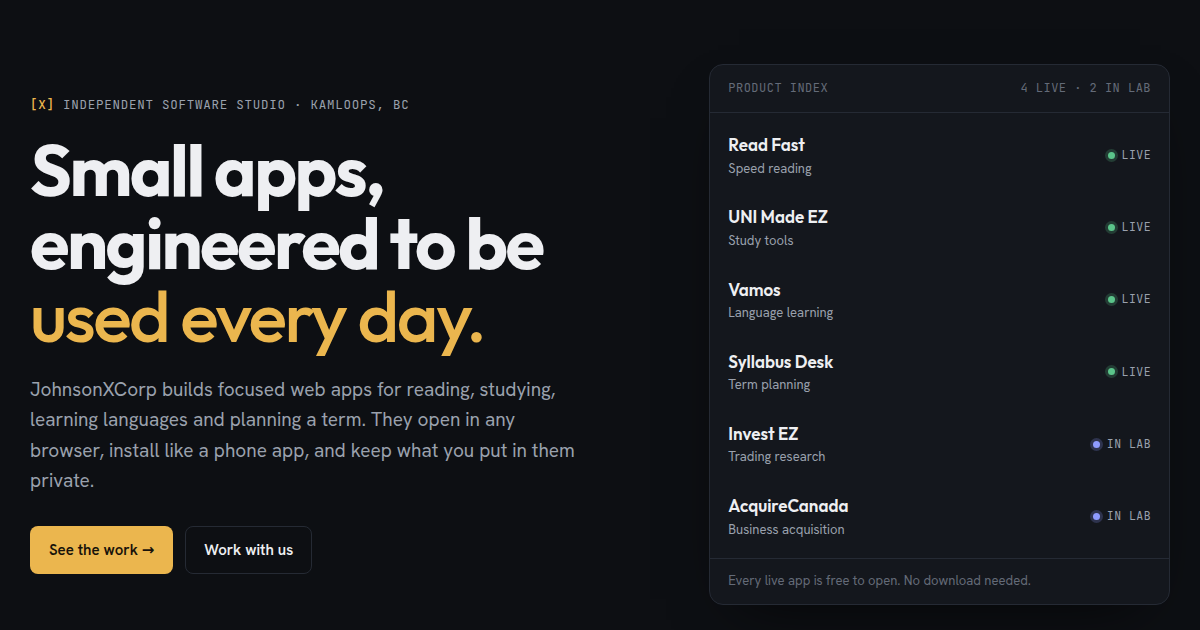
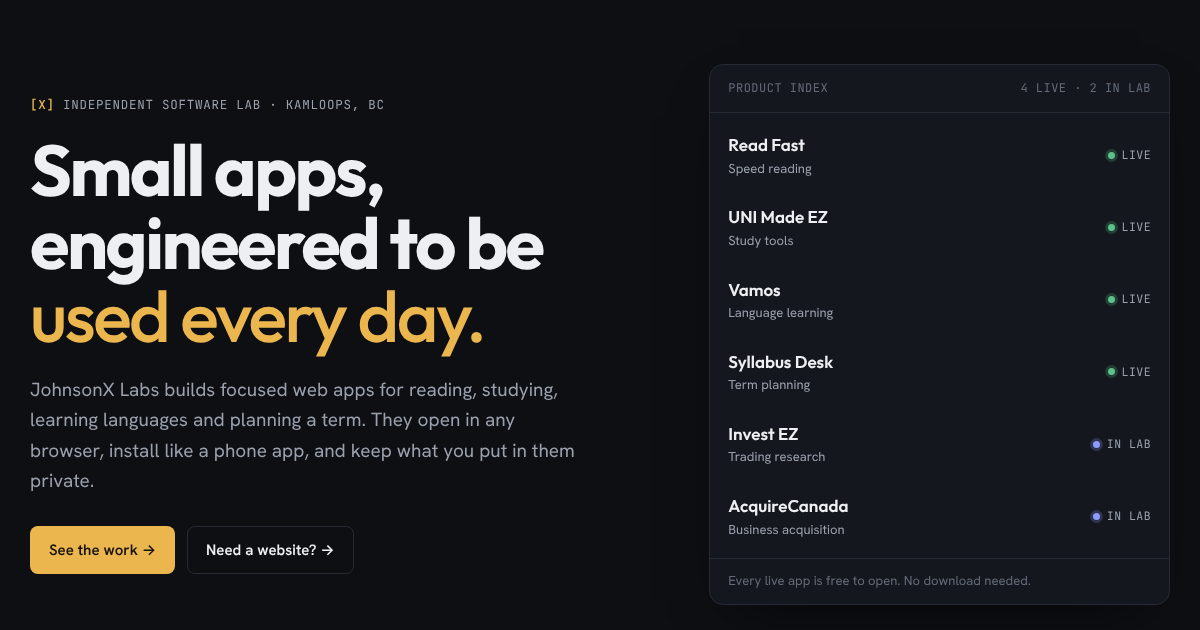
Rename JohnsonXCorp to JohnsonX Labs (BC naming rules)
In BC only an incorporated company may use "Corp" in its name, so the
apps brand becomes JohnsonX Labs. Legal page v1.2 explains the change.
Studio pages: name mentions only; Studio's © now names JohnsonX Studio.
New og-image with the new name.

Claude-Session: https://claude.ai/code/session_01PkgMs9qpznBCTw9e3EAUdt

diff --git a/legal/index.html b/legal/index.html
@@ -4,8 +4,8 @@
 <head>
 <meta charset="utf-8">
 <meta name="viewport" content="width=device-width, initial-scale=1, viewport-fit=cover">
-<title>Legal — JohnsonXCorp &amp; JohnsonX Studio</title>
-<meta name="description" content="Ownership, terms of use, client terms and privacy for JohnsonXCorp and JohnsonX Studio.">
+<title>Legal — JohnsonX Labs &amp; JohnsonX Studio</title>
+<meta name="description" content="Ownership, terms and privacy for JohnsonX Labs (apps) and JohnsonX Studio (web design), two separate projects run by Anndy Johnson.">
 <link rel="canonical" href="https://thepastor.github.io/legal/">
 <meta name="color-scheme" content="light">
 <meta name="theme-color" content="#F8F7F3">
@@ -248,10 +248,10 @@ header.bar .btn.primary{padding:8px 14px;font-size:14px}
 <body>
 <header class="bar">
   <div class="shell">
-    <a class="wm" href="../" aria-label="JohnsonXCorp home">Johnson<span class="x">[X]</span>Corp</a>
+    <a class="wm" href="../" aria-label="JohnsonX Labs home">Johnson<span class="x">[X]</span> Labs</a>
     <nav aria-label="Main">
       <a href="#who">Who</a>
-      <a href="#ownership">JohnsonXCorp</a>
+      <a href="#ownership">JohnsonX Labs</a>
       <a href="#studio">JohnsonX Studio</a>
       <a href="#privacy">Privacy</a>
       <a href="#contact">Contact</a>
@@ -262,11 +262,11 @@ header.bar .btn.primary{padding:8px 14px;font-size:14px}
 
 <main class="shell legal" id="top">
   <section class="lhead">
-    <div class="eyebrow"><b>[X]</b> Legal · Version 1.1 · Effective 24 September 2026</div>
+    <div class="eyebrow"><b>[X]</b> Legal · Version 1.2 · Effective 2 November 2026</div>
     <h1>Ownership, terms &amp; privacy</h1>
-    <p class="lede">Anndy Johnson runs two separate projects: <strong>JohnsonXCorp</strong>, which makes apps, and <strong>JohnsonX Studio</strong>, which designs websites. This page covers both, and each project has its own section. It is written in plain English. If anything here is unclear, email <a href="mailto:johnsonxcorp@outlook.com">johnsonxcorp@outlook.com</a>.</p>
+    <p class="lede">Anndy Johnson runs two separate projects: <strong>JohnsonX Labs</strong>, which makes apps, and <strong>JohnsonX Studio</strong>, which designs websites. This page covers both, and each project has its own section. It is written in plain English. If anything here is unclear, email <a href="mailto:johnsonxcorp@outlook.com">johnsonxcorp@outlook.com</a>.</p>
     <div class="summary">
-      <div><b>Two projects, one owner.</b> JohnsonXCorp and JohnsonX Studio are separate projects. Anndy Johnson owns and runs both.</div>
+      <div><b>Two projects, one owner.</b> JohnsonX Labs and JohnsonX Studio are separate projects. Anndy Johnson owns and runs both.</div>
       <div><b>Proprietary.</b> The apps, this site and the Studio templates are all rights reserved.</div>
       <div><b>Your details stay private.</b> They are used only to reply to you or to run the service you use, and they are never sold.</div>
     </div>
@@ -276,18 +276,18 @@ header.bar .btn.primary{padding:8px 14px;font-size:14px}
     <h2>1 · Who runs this</h2>
     <p><strong>Anndy Johnson</strong> is an individual based in Kamloops, British Columbia, Canada. He uses two names for two separate projects:</p>
     <ul>
-      <li><strong>JohnsonXCorp</strong> is the name for his apps and for this website.</li>
+      <li><strong>JohnsonX Labs</strong> is the name for his apps and for this website.</li>
       <li><strong>JohnsonX Studio</strong> is the name for his web design service for small businesses.</li>
     </ul>
-    <p>Both are names Anndy Johnson works under, and neither is a separate company. Each project's ownership is set out in its own section below. In this page, "we", "us" and "our" mean Anndy Johnson, under whichever of the two names applies.</p>
+    <p>Both are names Anndy Johnson works under, and neither is a separate company. JohnsonX Labs was called <strong>JohnsonXCorp</strong> until 2 November 2026. The name changed because, in British Columbia, only an incorporated company may use "Corp" or "Corporation" in its name. Older versions of the apps, and copies of them, may still show the old name. Everything said here about JohnsonX Labs applies to them too. Each project's ownership is set out in its own section below. In this page, "we", "us" and "our" mean Anndy Johnson, under whichever of the two names applies.</p>
     <p>These are independent projects. They are not operated, funded or endorsed by Thompson Rivers University or any other institution.</p>
   </section>
 
   <section class="lsec" id="ownership">
-    <h2>2 · JohnsonXCorp: apps &amp; this website</h2>
+    <h2>2 · JohnsonX Labs: apps &amp; this website</h2>
     <h3>Ownership</h3>
-    <p>Copyright in the JohnsonXCorp website (the homepage and this Legal page) belongs to Anndy Johnson. So does copyright in the JohnsonXCorp apps: Read Fast, UNI Made EZ, Vamos and Syllabus Desk, plus any other app that carries the JohnsonXCorp credit. Ownership covers the design, text, code, screenshots, graphics and icons. The JohnsonXCorp name, the Johnson[X]Corp wordmark and the hexagon-X mark also belong to Anndy Johnson.</p>
-    <p class="notice">© 2026 Anndy Johnson (JohnsonXCorp). All rights reserved.</p>
+    <p>Copyright in the JohnsonX Labs website (the homepage and this Legal page) belongs to Anndy Johnson. So does copyright in the JohnsonX Labs apps: Read Fast, UNI Made EZ, Vamos and Syllabus Desk, plus any other app that carries the JohnsonX Labs credit. Ownership covers the design, text, code, screenshots, graphics and icons. The JohnsonX Labs name, the Johnson[X] Labs wordmark and the hexagon-X mark also belong to Anndy Johnson.</p>
+    <p class="notice">© 2026 Anndy Johnson (JohnsonX Labs). All rights reserved.</p>
 
     <h3 id="rights">All rights reserved</h3>
     <p>The apps and this website are <strong>proprietary</strong>. They are not open source, and no licence is granted to copy, modify, reuse, redistribute, sell or build on any part of them. You can see the source in a public GitHub repository or in your browser, but that doesn't give you permission to use it.</p>
@@ -295,7 +295,7 @@ header.bar .btn.primary{padding:8px 14px;font-size:14px}
       <li>You may use the apps and view the site for your own personal, non-commercial purposes.</li>
       <li>You may share links to any page or app.</li>
       <li>You may not copy the design, code or text, in whole or in part, or present any of it as your own.</li>
-      <li>You may not use the JohnsonXCorp name, the [X] wordmark or the hexagon-X mark to identify anyone else's work.</li>
+      <li>You may not use the JohnsonX Labs name, the [X] wordmark or the hexagon-X mark to identify anyone else's work.</li>
     </ul>
     <p>Each app has its own licence and terms in its own repository, and those apply alongside this page.</p>
 
@@ -364,8 +364,8 @@ header.bar .btn.primary{padding:8px 14px;font-size:14px}
   <section class="lsec" id="privacy">
     <h2>5 · Privacy</h2>
     <p>We follow Canada's private-sector privacy law (PIPEDA) and British Columbia's Personal Information Protection Act. In short, we collect only what we need to reply to you and do the work.</p>
-    <h3>JohnsonXCorp apps and this website</h3>
-    <p>The JohnsonXCorp homepage and this page have no forms and collect no personal information beyond the standard server logs listed below. Each app (Read Fast, UNI Made EZ, Vamos, Syllabus Desk) explains inside the app what it stores and where.</p>
+    <h3>JohnsonX Labs apps and this website</h3>
+    <p>The JohnsonX Labs homepage and this page have no forms and collect no personal information beyond the standard server logs listed below. Each app (Read Fast, UNI Made EZ, Vamos, Syllabus Desk) explains inside the app what it stores and where.</p>
     <h3>JohnsonX Studio</h3>
     <div class="tbl"><table>
       <thead><tr><th>What</th><th>Why</th><th>Where it's kept</th></tr></thead>
@@ -396,11 +396,11 @@ header.bar .btn.primary{padding:8px 14px;font-size:14px}
     <h2>6 · Contact &amp; changes</h2>
     <p>For questions, permission requests or privacy requests about either project, contact Anndy Johnson:</p>
     <p class="contactline"><a href="mailto:johnsonxcorp@outlook.com">johnsonxcorp@outlook.com</a> · <a href="tel:+12508795043">250-879-5043</a> · Kamloops, BC, Canada</p>
-    <p>If this page changes, the version number and date at the top will change with it. Version 1.1 (24 September 2026) splits the page into separate JohnsonXCorp and JohnsonX Studio sections, each with its own ownership wording. No terms were added or removed.</p>
+    <p>If this page changes, the version number and date at the top will change with it. Version 1.2 (2 November 2026) renames JohnsonX Labs to JohnsonX Labs and explains the change in section 1. No terms were added or removed. Version 1.1 (24 September 2026) split the page into separate sections for the apps and for JohnsonX Studio.</p>
   </section>
 
   <footer class="foot">
-    <span><span class="wm">Johnson<span class="x">[X]</span>Corp</span> &nbsp;·&nbsp; <a href="../studio/">JohnsonX Studio</a></span>
+    <span><span class="wm">Johnson<span class="x">[X]</span> Labs</span> &nbsp;·&nbsp; <a href="../studio/">JohnsonX Studio</a></span>
     <span>© 2026 Anndy Johnson. All rights reserved.</span>
   </footer>
 </main>

diff --git a/index.html b/index.html
@@ -1,7 +1,7 @@
 <!doctype html>
 <!--
-  JohnsonXCorp — studio website
-  Copyright (c) 2026 JohnsonXCorp. All rights reserved.
+  JohnsonX Labs — company website
+  Copyright (c) 2026 Anndy Johnson (JohnsonX Labs). All rights reserved.
   This page's design, code and copy are proprietary. Viewing the source does not grant a licence
   to copy, reuse or redistribute any part of it. See LICENSE. Enquiries: johnsonxcorp@outlook.com
 -->
@@ -9,8 +9,8 @@
 <head>
 <meta charset="utf-8">
 <meta name="viewport" content="width=device-width, initial-scale=1, viewport-fit=cover">
-<title>JohnsonXCorp — independent software studio, Kamloops BC</title>
-<meta name="description" content="JohnsonXCorp is an independent software studio in Kamloops, BC, building small, well-made apps for reading, studying, languages and planning.">
+<title>JohnsonX Labs — independent software lab, Kamloops BC</title>
+<meta name="description" content="JohnsonX Labs is an independent software lab in Kamloops, BC, building small, well-made apps for reading, studying, languages and planning.">
 <link rel="canonical" href="https://thepastor.github.io/">
 <meta name="color-scheme" content="dark light">
 <meta name="theme-color" content="#0D0F13" media="(prefers-color-scheme: dark)">
@@ -19,15 +19,15 @@
 <link rel="icon" href="favicon-32.png" sizes="32x32" type="image/png">
 <link rel="apple-touch-icon" href="apple-touch-icon.png">
 <meta property="og:type" content="website">
-<meta property="og:site_name" content="JohnsonXCorp">
-<meta property="og:title" content="JohnsonXCorp — small apps, engineered to be used every day">
-<meta property="og:description" content="JohnsonXCorp is an independent software studio in Kamloops, BC, building small, well-made apps for reading, studying, languages and planning.">
+<meta property="og:site_name" content="JohnsonX Labs">
+<meta property="og:title" content="JohnsonX Labs — small apps, engineered to be used every day">
+<meta property="og:description" content="JohnsonX Labs is an independent software lab in Kamloops, BC, building small, well-made apps for reading, studying, languages and planning.">
 <meta property="og:url" content="https://thepastor.github.io/">
 <meta property="og:image" content="https://thepastor.github.io/og-image.png">
 <meta property="og:image:width" content="1200">
 <meta property="og:image:height" content="630">
 <meta name="twitter:card" content="summary_large_image">
-<script type="application/ld+json">{"@context":"https://schema.org","@type":"Organization","name":"JohnsonXCorp","url":"https://thepastor.github.io/","email":"johnsonxcorp@outlook.com","telephone":"+1-250-879-5043","logo":"https://thepastor.github.io/apple-touch-icon.png","address":{"@type":"PostalAddress","addressLocality":"Kamloops","addressRegion":"BC","addressCountry":"CA"},"sameAs":["https://github.com/ThePastor"]}</script>
+<script type="application/ld+json">{"@context":"https://schema.org","@type":"Organization","name":"JohnsonX Labs","url":"https://thepastor.github.io/","email":"johnsonxcorp@outlook.com","telephone":"+1-250-879-5043","logo":"https://thepastor.github.io/apple-touch-icon.png","address":{"@type":"PostalAddress","addressLocality":"Kamloops","addressRegion":"BC","addressCountry":"CA"},"sameAs":["https://github.com/ThePastor"]}</script>
 <link rel="preconnect" href="https://fonts.googleapis.com">
 <link rel="preconnect" href="https://fonts.gstatic.com" crossorigin>
 <link rel="stylesheet" href="https://fonts.googleapis.com/css2?family=Outfit:wght@500;600;700&family=Hanken+Grotesk:wght@400;500;600&family=JetBrains+Mono:wght@400;500&display=swap">
@@ -195,7 +195,7 @@ footer.foot .wm{color:var(--ink);font-size:16px}
 <body>
 <header class="bar">
   <div class="shell">
-    <a class="wm" href="#top" aria-label="JohnsonXCorp home">Johnson<span class="x">[X]</span>Corp</a>
+    <a class="wm" href="#top" aria-label="JohnsonX Labs home">Johnson<span class="x">[X]</span> Labs</a>
     <nav aria-label="Main">
       <a href="#work">Work</a>
       <a href="#lab">In the lab</a>
@@ -211,9 +211,9 @@ footer.foot .wm{color:var(--ink);font-size:16px}
 <main class="shell" id="top">
   <section class="hero">
     <div>
-      <div class="eyebrow"><b>[X]</b> Independent software studio · Kamloops, BC</div>
+      <div class="eyebrow"><b>[X]</b> Independent software lab · Kamloops, BC</div>
       <h1>Small apps, engineered to be <span class="br">used every day.</span></h1>
-      <p class="lede">JohnsonXCorp builds focused web apps for reading, studying, learning languages and planning a term. They open in any browser, install like a phone app, and keep what you put in them private.</p>
+      <p class="lede">JohnsonX Labs builds focused web apps for reading, studying, learning languages and planning a term. They open in any browser, install like a phone app, and keep what you put in them private.</p>
       <div class="cta">
         <a class="btn primary" href="#work">See the work →</a>
         <a class="btn ghost" href="studio/">Need a website? →</a>
@@ -385,7 +385,7 @@ footer.foot .wm{color:var(--ink);font-size:16px}
       <div>
         <div class="eyebrow">About</div>
         <h2>Built in Kamloops</h2>
-        <p style="margin-top:18px"><strong>JohnsonXCorp is an independent software studio in Kamloops, British Columbia.</strong> It started with a simple question: what small tool would make this easier? The answers became Read Fast, UNI Made EZ, Vamos and Syllabus Desk.</p>
+        <p style="margin-top:18px"><strong>JohnsonX Labs is an independent software lab in Kamloops, British Columbia.</strong> It started with a simple question: what small tool would make this easier? The answers became Read Fast, UNI Made EZ, Vamos and Syllabus Desk.</p>
         <p>Every product is designed, built and maintained in-house, with the same care whether ten people use it or ten thousand.</p>
       </div>
       <div class="contact">
@@ -411,8 +411,8 @@ footer.foot .wm{color:var(--ink);font-size:16px}
   </section>
 
   <footer class="foot">
-    <span class="wm">Johnson<span class="x">[X]</span>Corp</span>
-    <span>© 2026 Anndy Johnson, operating as JohnsonXCorp. All rights reserved. · <a href="legal/">Legal &amp; privacy</a></span>
+    <span class="wm">Johnson<span class="x">[X]</span> Labs</span>
+    <span>© 2026 Anndy Johnson, operating as JohnsonX Labs. All rights reserved. · <a href="legal/">Legal &amp; privacy</a></span>
   </footer>
 </main>
 

diff --git a/studio/index.html b/studio/index.html
@@ -1,7 +1,7 @@
 <!doctype html>
 <!--
-  JohnsonX Studio — a JohnsonXCorp studio
-  Copyright (c) 2026 JohnsonXCorp. All rights reserved. Proprietary; see ../LICENSE.
+  JohnsonX Studio — web design by Anndy Johnson
+  Copyright (c) 2026 Anndy Johnson (JohnsonX Studio). All rights reserved. Proprietary; see ../LICENSE.
   Enquiries: johnsonxcorp@outlook.com · 250-879-5043
 -->
 <html lang="en">
@@ -25,7 +25,7 @@
 <meta property="og:image:width" content="1200">
 <meta property="og:image:height" content="630">
 <meta name="twitter:card" content="summary_large_image">
-<script type="application/ld+json">{"@context":"https://schema.org","@type":"ProfessionalService","name":"JohnsonX Studio","description":"Website design and care for small businesses.","url":"https://thepastor.github.io/studio/","telephone":"+1-250-879-5043","email":"johnsonxcorp@outlook.com","image":"https://thepastor.github.io/studio/og-image.png","priceRange":"$150–$900","areaServed":{"@type":"City","name":"Kamloops"},"address":{"@type":"PostalAddress","addressLocality":"Kamloops","addressRegion":"BC","addressCountry":"CA"},"parentOrganization":{"@type":"Organization","name":"JohnsonXCorp","url":"https://thepastor.github.io/"}}</script>
+<script type="application/ld+json">{"@context":"https://schema.org","@type":"ProfessionalService","name":"JohnsonX Studio","description":"Website design and care for small businesses.","url":"https://thepastor.github.io/studio/","telephone":"+1-250-879-5043","email":"johnsonxcorp@outlook.com","image":"https://thepastor.github.io/studio/og-image.png","priceRange":"$150–$900","areaServed":{"@type":"City","name":"Kamloops"},"address":{"@type":"PostalAddress","addressLocality":"Kamloops","addressRegion":"BC","addressCountry":"CA"},"founder":{"@type":"Person","name":"Anndy Johnson","url":"https://thepastor.github.io/"}}</script>
 <link rel="preconnect" href="https://fonts.googleapis.com">
 <link rel="preconnect" href="https://fonts.gstatic.com" crossorigin>
 <link rel="stylesheet" href="https://fonts.googleapis.com/css2?family=Outfit:wght@500;600;700&family=Hanken+Grotesk:wght@400;500;600&family=JetBrains+Mono:wght@400;500&display=swap">
@@ -302,7 +302,7 @@ header.bar .btn.primary{padding:8px 14px;font-size:14px}
         <div class="tbody"><div class="tag">[ TRADES · CLEANING · HOME ]</div><h3>Call-first</h3><p>A call button on every screen, a four-question quote form, trust badges, upfront prices and your service area.</p><span class="open">Open the sample ↗</span></div>
       </a>
     </div>
-    <p class="proof">Also from the same maker: <a href="../#work">Read Fast, UNI Made EZ, Vamos and Syllabus Desk</a>, four live apps built and run by JohnsonXCorp.</p>
+    <p class="proof">Also from the same maker: <a href="../#work">Read Fast, UNI Made EZ, Vamos and Syllabus Desk</a>, four live apps built and run by JohnsonX Labs.</p>
   </section>
 
   <section class="block" id="pricing">
@@ -407,7 +407,7 @@ header.bar .btn.primary{padding:8px 14px;font-size:14px}
       <div>
         <div class="eyebrow">Contact</div>
         <h2>Let's get your business online</h2>
-        <p style="margin-top:18px">Hi, I'm <strong>Anndy</strong>, the developer behind JohnsonX Studio and JohnsonXCorp. I'm based in Kamloops and I work directly with every client, so you always deal with the person building your site.</p>
+        <p style="margin-top:18px">Hi, I'm <strong>Anndy</strong>, the developer behind JohnsonX Studio and JohnsonX Labs. I'm based in Kamloops and I work directly with every client, so you always deal with the person building your site.</p>
         <div class="contact" style="margin-top:22px">
           <div class="line"><div><span class="lbl">Call or text</span><a class="val" href="tel:+12508795043" id="phone">250-879-5043</a></div><button class="copy" type="button" data-copy="250-879-5043">Copy</button></div>
           <div class="line"><div><span class="lbl">Email</span><a class="val" href="mailto:johnsonxcorp@outlook.com" id="email">johnsonxcorp@outlook.com</a></div><button class="copy" type="button" data-copy="johnsonxcorp@outlook.com">Copy</button></div>
@@ -434,8 +434,8 @@ header.bar .btn.primary{padding:8px 14px;font-size:14px}
   </section>
 
   <footer class="foot">
-    <span><span class="wm">Johnson<span class="x">[X]</span> Studio</span> &nbsp;·&nbsp; a <a href="../">JohnsonXCorp</a> studio</span>
-    <span>© 2026 Anndy Johnson, operating as JohnsonXCorp. All rights reserved. · <a href="../legal/">Legal &amp; privacy</a></span>
+    <span><span class="wm">Johnson<span class="x">[X]</span> Studio</span> &nbsp;·&nbsp; from the maker of <a href="../">JohnsonX Labs</a></span>
+    <span>© 2026 Anndy Johnson, operating as JohnsonX Studio. All rights reserved. · <a href="../legal/">Legal &amp; privacy</a></span>
   </footer>
 </main>
 

diff --git a/404.html b/404.html
@@ -1,7 +1,7 @@
 <!doctype html>
 <!--
-  JohnsonXCorp — studio website
-  Copyright (c) 2026 JohnsonXCorp. All rights reserved.
+  JohnsonX Labs — company website
+  Copyright (c) 2026 Anndy Johnson (JohnsonX Labs). All rights reserved.
   This page's design, code and copy are proprietary. Viewing the source does not grant a licence
   to copy, reuse or redistribute any part of it. See LICENSE. Enquiries: johnsonxcorp@outlook.com
 -->
@@ -9,8 +9,8 @@
 <head>
 <meta charset="utf-8">
 <meta name="viewport" content="width=device-width, initial-scale=1, viewport-fit=cover">
-<title>Page not found — JohnsonXCorp</title>
-<meta name="description" content="JohnsonXCorp is an independent software studio in Kamloops, BC, building small, well-made apps for reading, studying, languages and planning.">
+<title>Page not found — JohnsonX Labs</title>
+<meta name="description" content="JohnsonX Labs is an independent software lab in Kamloops, BC, building small, well-made apps for reading, studying, languages and planning.">
 <link rel="canonical" href="https://thepastor.github.io/">
 <meta name="color-scheme" content="dark light">
 <meta name="theme-color" content="#0D0F13" media="(prefers-color-scheme: dark)">
@@ -19,15 +19,15 @@
 <link rel="icon" href="favicon-32.png" sizes="32x32" type="image/png">
 <link rel="apple-touch-icon" href="apple-touch-icon.png">
 <meta property="og:type" content="website">
-<meta property="og:site_name" content="JohnsonXCorp">
-<meta property="og:title" content="JohnsonXCorp — small apps, engineered to be used every day">
-<meta property="og:description" content="JohnsonXCorp is an independent software studio in Kamloops, BC, building small, well-made apps for reading, studying, languages and planning.">
+<meta property="og:site_name" content="JohnsonX Labs">
+<meta property="og:title" content="JohnsonX Labs — small apps, engineered to be used every day">
+<meta property="og:description" content="JohnsonX Labs is an independent software lab in Kamloops, BC, building small, well-made apps for reading, studying, languages and planning.">
 <meta property="og:url" content="https://thepastor.github.io/">
 <meta property="og:image" content="https://thepastor.github.io/og-image.png">
 <meta property="og:image:width" content="1200">
 <meta property="og:image:height" content="630">
 <meta name="twitter:card" content="summary_large_image">
-<script type="application/ld+json">{"@context":"https://schema.org","@type":"Organization","name":"JohnsonXCorp","url":"https://thepastor.github.io/","email":"johnsonxcorp@outlook.com","logo":"https://thepastor.github.io/apple-touch-icon.png","address":{"@type":"PostalAddress","addressLocality":"Kamloops","addressRegion":"BC","addressCountry":"CA"},"sameAs":["https://github.com/ThePastor"]}</script>
+<script type="application/ld+json">{"@context":"https://schema.org","@type":"Organization","name":"JohnsonX Labs","url":"https://thepastor.github.io/","email":"johnsonxcorp@outlook.com","logo":"https://thepastor.github.io/apple-touch-icon.png","address":{"@type":"PostalAddress","addressLocality":"Kamloops","addressRegion":"BC","addressCountry":"CA"},"sameAs":["https://github.com/ThePastor"]}</script>
 <link rel="preconnect" href="https://fonts.googleapis.com">
 <link rel="preconnect" href="https://fonts.gstatic.com" crossorigin>
 <link rel="stylesheet" href="https://fonts.googleapis.com/css2?family=Outfit:wght@500;600;700&family=Hanken+Grotesk:wght@400;500;600&family=JetBrains+Mono:wght@400;500&display=swap">
@@ -191,7 +191,7 @@ footer.foot .wm{color:var(--ink);font-size:16px}
 </head>
 <body>
 <main class="shell" style="min-height:80vh;display:grid;place-content:center;text-align:center;gap:18px">
-  <a class="wm" href="/" style="font-size:22px;text-decoration:none">Johnson<span class="x">[X]</span>Corp</a>
+  <a class="wm" href="/" style="font-size:22px;text-decoration:none">Johnson<span class="x">[X]</span> Labs</a>
   <h1 style="font-size:clamp(34px,6vw,56px);margin:0">That page doesn't exist.</h1>
   <p style="color:var(--muted);margin:0">It may have moved. Head back to the studio to find what you're looking for.</p>
   <p><a class="btn primary" href="/">Go to the homepage</a></p>

diff --git a/studio/admin/index.html b/studio/admin/index.html
@@ -1,5 +1,5 @@
 <!doctype html>
-<!-- Studio Desk — Copyright (c) 2026 Anndy Johnson, operating as JohnsonXCorp. All rights reserved. Proprietary. -->
+<!-- Studio Desk — Copyright (c) 2026 Anndy Johnson, operating as JohnsonX Studio. All rights reserved. Proprietary. -->
 <html lang="en">
 <head>
 <meta charset="utf-8">
@@ -441,7 +441,7 @@ footer.foot a{color:inherit}
 
 <footer class="shell foot">
   <span>Studio Desk · private · <a href="../../legal/">Legal</a></span>
-  <span>© 2026 Anndy Johnson, operating as JohnsonXCorp. All rights reserved.</span>
+  <span>© 2026 Anndy Johnson, operating as JohnsonX Studio. All rights reserved.</span>
 </footer>
 
 <script src="https://cdn.jsdelivr.net/npm/@supabase/supabase-js@2.45.4/dist/umd/supabase.js"></script>

diff --git a/README.md b/README.md
@@ -1,9 +1,9 @@
-# JohnsonXCorp — studio website
+# JohnsonX Labs — company website
 
 Live at **https://thepastor.github.io/**
 
-The home page of JohnsonXCorp, an independent software studio in Kamloops, BC. It
-describes, shows and links the studio's products:
+The home page of JohnsonX Labs, an independent software lab in Kamloops, BC. It
+describes, shows and links its apps:
 
 - [Read Fast](https://thepastor.github.io/read-fast/) — speed reading
 - [UNI Made EZ](https://thepastor.github.io/uni-made-ez/) — study tools
@@ -15,4 +15,4 @@ from the `main` branch. There is no build step.
 
 Contact: johnsonxcorp@outlook.com
 
-Copyright (c) 2026 JohnsonXCorp. All rights reserved. See [LICENSE](LICENSE).
+Copyright (c) 2026 Anndy Johnson (JohnsonX Labs). All rights reserved. See [LICENSE](LICENSE).
